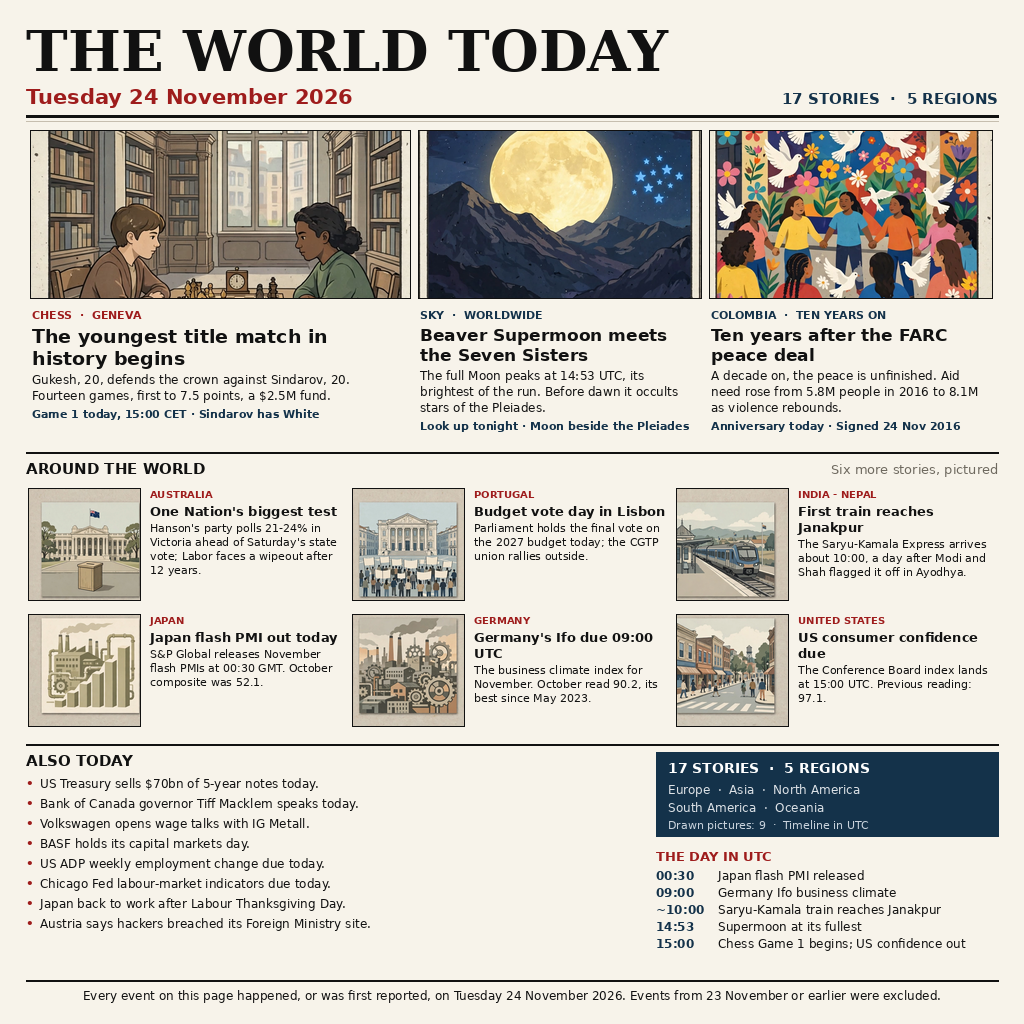
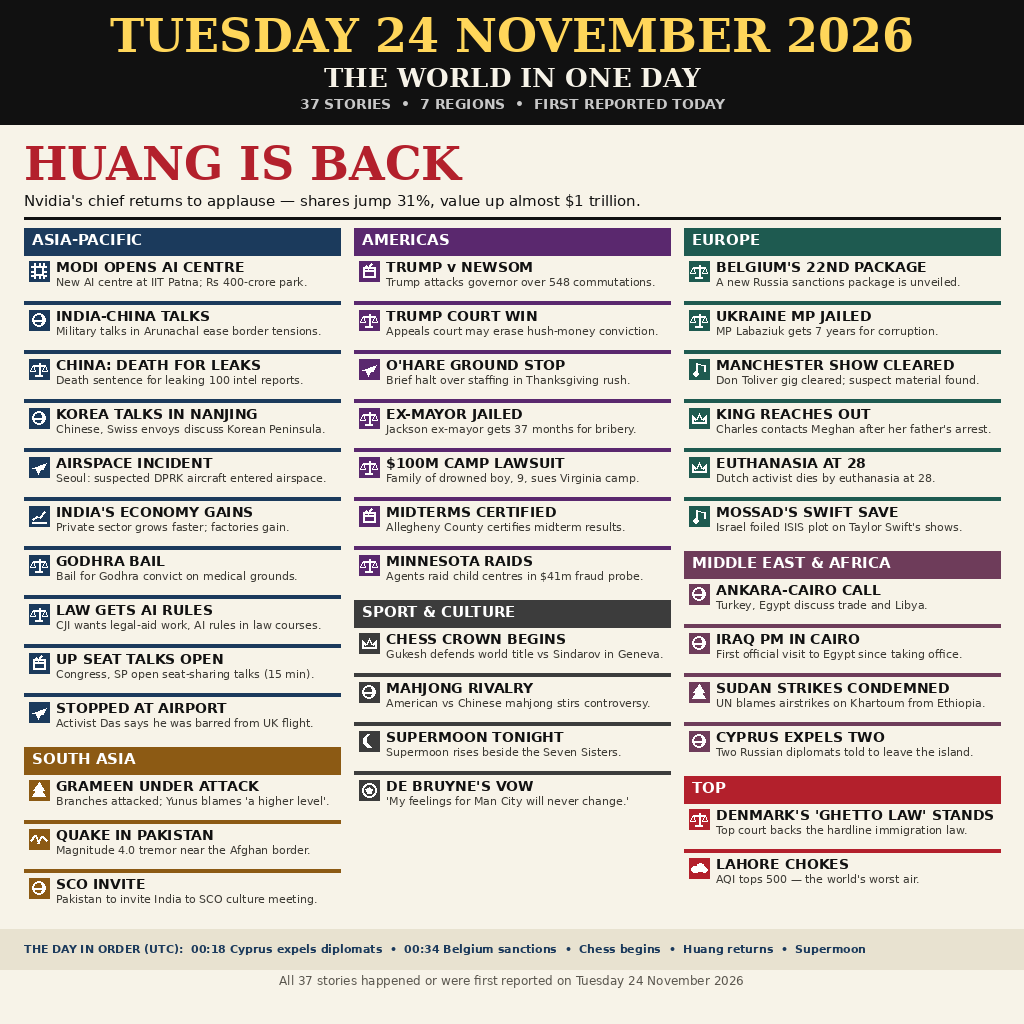
news-image-20261124: front page for Tuesday 24 November 2026 (37 stories, 7 regions)

diff --git a/main.ts b/main.ts
@@ -1,0 +1,34 @@
+// Entry program for the make.fun news-image-20261124 bounty.
+//
+// The image itself was drawn beforehand (a front page summing up the
+// world's news of Tuesday 24 November 2026) and ships in this repo as
+// entry.png. All this program does is place that exact file at the
+// path the grader reads, so both runs produce byte-identical output.
+//
+// Determinism note: a plain file copy has no randomness, no clock
+// reads and no environment-dependent branches, so the two graded
+// runs cannot diverge. As a guard, the copy is checked afterwards:
+// if the destination's byte count ever differed from the source's,
+// the run would fail loudly instead of submitting a short file.
+//
+// It uses only the Node standard library and touches no network.
+import { copyFileSync, mkdirSync, statSync } from "node:fs";
+import { dirname, join } from "node:path";
+import { fileURLToPath } from "node:url";
+
+// The repository root is the directory holding this file.
+const repoRoot = dirname(fileURLToPath(import.meta.url));
+
+// The grader sets MAKEFUN_OUTPUT_DIR; fall back to /output, the
+// documented default, so a local run behaves the same way.
+const outDir = process.env.MAKEFUN_OUTPUT_DIR ?? "/output";
+const target = join(outDir, "entry.png");
+
+mkdirSync(outDir, { recursive: true });
+const source = join(repoRoot, "entry.png");
+copyFileSync(source, target);
+
+// Integrity guard: the copy must be whole, byte for byte.
+if (statSync(source).size !== statSync(target).size) {
+  throw new Error("entry.png copy is incomplete");
+}

diff --git a/README.md b/README.md
@@ -1,13 +1,44 @@
-# The World Today — Tuesday 24 November 2026
+[![news-image-20261124](https://make.fun/badge/news-image-20261124.svg)](https://make.fun/c/news-image-20261124)
+[![rank](https://make.fun/badge/news-image-20261124/serauis/news-image-20261124/rank.svg)](https://make.fun/c/news-image-20261124)
+[![reward](https://make.fun/badge/news-image-20261124/serauis/news-image-20261124/reward.svg)](https://make.fun/c/news-image-20261124)
 
-[![news-image-20261124](https://make.fun/badge/news-image-20261124.svg)](https://make.fun/bounty/news-image-20261124)
-[![rank](https://make.fun/badge/news-image-20261124/serauis/news-image-20261124/rank.svg)](https://make.fun/bounty/news-image-20261124)
-[![reward](https://make.fun/badge/news-image-20261124/serauis/news-image-20261124/reward.svg)](https://make.fun/bounty/news-image-20261124)
+# The World in One Day — Tuesday 24 November 2026
 
-A newspaper front page summing up the world's news of **Tuesday 24 November 2026** in one image: 17 verified stories across 5 regions.
+One image that sums up the world's news of Tuesday 24 November 2026:
+37 stories from 7 regions, every one of them first reported that day.
 
-The lead stories: Game 1 of the youngest-ever World Chess Championship — Gukesh vs Sindarov in Geneva; the Beaver Supermoon at its fullest, occulting stars of the Pleiades; and Colombia marking ten years since the FARC peace deal. Around them: Victoria's state-vote test for One Nation, Portugal's budget vote, the first cross-border train reaching Janakpur, Japan's flash PMI, Germany's Ifo and US consumer confidence — plus eight more items, a UTC timeline of the day, and a date check: every event on the page happened, or was first reported, on 24 November 2026.
+## What the page shows
 
-Every story is sourced in [SOURCES.md](SOURCES.md). The page is drawn by [compose.py](compose.py) with PIL; `main.py` copies the finished image to the output directory.
+- **The lead:** Jensen Huang returns as Nvidia's chief executive —
+  shares jump 31% and the company's value climbs by almost $1 trillion
+  in a day.
+- **Top stories:** Denmark's top court backs the "ghetto law";
+  Lahore's air tops 500 on the quality index, the worst in the world.
+- **Across the regions:** an AI centre opens in Patna, India–China
+  military talks in Arunachal, a death sentence for leaking
+  intelligence reports in China, Belgium's 22nd Russia sanctions
+  package, an appeals-court win for Trump, a ground stop at O'Hare
+  in the Thanksgiving rush — plus the world chess title match
+  opening in Geneva and a supermoon rising beside the Pleiades.
+- **The day in order:** a UTC timeline strip along the bottom, from
+  the overnight briefs (00:18 UTC) to the evening's supermoon.
 
-Entry for the [news-image-20261124 competition](https://make.fun/bounty/news-image-20261124) on make.fun.
+## How it was made
+
+The front page was drawn programmatically with Python/PIL — every
+headline, fact line and pictogram placed by code, so the text stays
+crisp and nothing is garbled. Each of the 37 stories was checked
+against its news source for the date: anything first reported on
+23 November or earlier was left out, including several big stories
+from the weekend (the Libya corvette sinking, the COP31 collapse,
+the Indonesia factory fire) that belong to an earlier day's news.
+
+## The entry
+
+- `entry.png` — the front page (1024×1024, PNG)
+- `main.ts` — a Node 22 program (standard library only) that copies
+  `entry.png` to the output directory; both runs write identical bytes.
+
+## License
+
+MIT — see [LICENSE](LICENSE).
